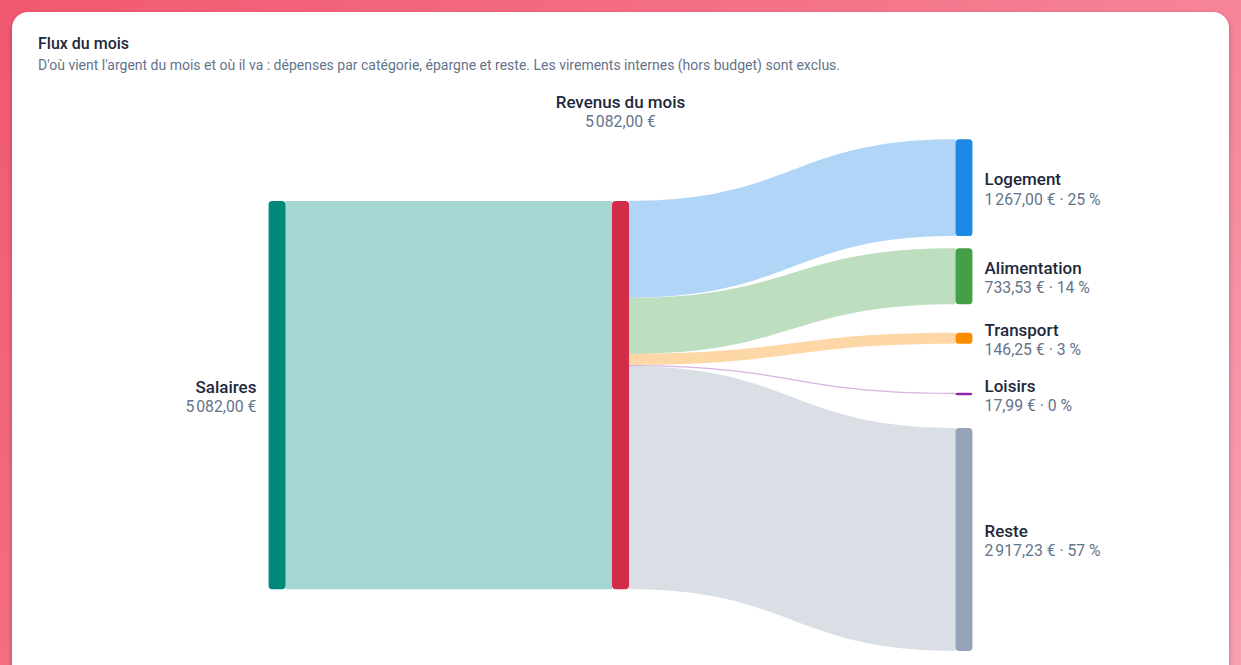
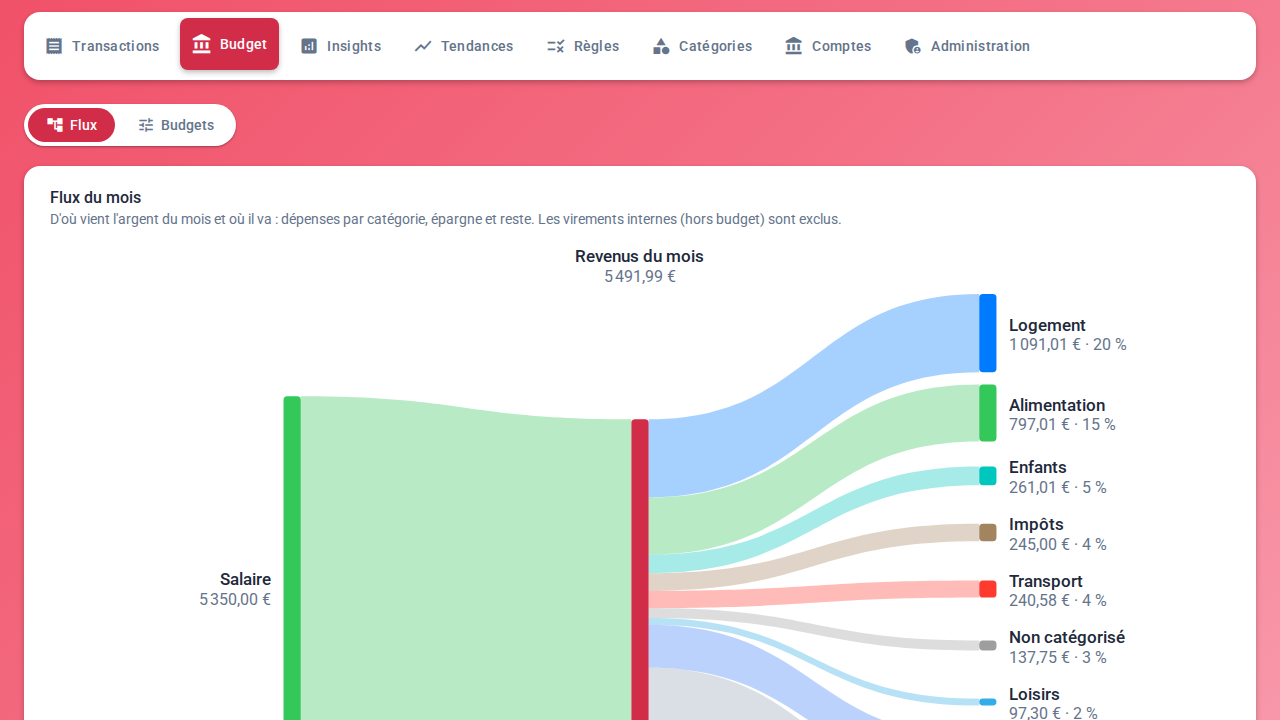
README: screenshot gallery, full comparison, aligned EN/FR
- Seven screenshots of the demonstration data, all 1280x720 and cropped from
  the tabs: a full-width transactions view and a captioned 2x3 gallery
  (budgets, money flow, trends, insights, categories, AI agent); English set
  in docs/assets/en, French set at the paths used by the documentation
- Comparison with Firefly III, Actual Budget and Kresus extended to 23
  criteria in five groups, including what Carbure lacks
- README.md and README.fr.md with the same content (badge, bank coverage,
  comparison, contribution) and the 1.0.2 features
- Portal: euro sign in English (amounts are in euros)

diff --git a/portal/i18n.js b/portal/i18n.js
@@ -999,7 +999,7 @@ const i18n = {
         },
         
         // Currency
-        currencySymbol: '$'
+        currencySymbol: '€'
     }
 };
 

diff --git a/README.fr.md b/README.fr.md
@@ -11,7 +11,7 @@
 <p align="center">
   <strong>Le budget de votre foyer, enfin sous contrôle.</strong><br>
   Vos comptes bancaires synchronisés automatiquement, vos dépenses catégorisées,<br>
-  vos budgets suivis au jour le jour — sur le web et sur iPhone.
+  vos budgets suivis au jour le jour — sur le web et sur iPhone. Hébergé chez vous, gratuit et open source.
 </p>
 
 <p align="center">
@@ -21,6 +21,7 @@
 <p align="center">
   <a href="https://github.com/ltoinel/Carbure/actions/workflows/ci.yml"><img src="https://github.com/ltoinel/Carbure/actions/workflows/ci.yml/badge.svg" alt="CI"></a>
   <a href="https://github.com/ltoinel/Carbure/releases"><img src="https://img.shields.io/github/v/release/ltoinel/Carbure" alt="Release"></a>
+  <a href="https://hub.docker.com/r/ltoinel/carbure"><img src="https://img.shields.io/docker/pulls/ltoinel/carbure?logo=docker&logoColor=white" alt="Docker pulls"></a>
   <a href="https://github.com/ltoinel/Carbure/actions/workflows/ci.yml"><img src="https://img.shields.io/badge/coverage-%E2%89%A5%2090%25-brightgreen" alt="Coverage"></a>
   <a href="https://www.php.net/"><img src="https://img.shields.io/badge/PHP-%3E%3D%208.2-777BB4?logo=php&logoColor=white" alt="PHP"></a>
   <a href="https://mariadb.org/"><img src="https://img.shields.io/badge/MariaDB%20%2F%20MySQL-003545?logo=mariadb&logoColor=white" alt="MariaDB"></a>
@@ -29,34 +30,117 @@
 </p>
 
 <p align="center">
-  <img src="docs/assets/screenshot-transactions.png" alt="Transactions du mois : recherche, pointage et catégories" width="820">
+  <img src="docs/assets/screenshot-transactions.png" alt="Transactions du mois : revenus, dépenses, recherche, pointage et catégories" width="100%">
 </p>
+
+<table>
+  <tr>
+    <td width="50%" valign="top">
+      <img src="docs/assets/screenshot-budget.png" alt="Budgets par catégorie, les sous-catégories s'additionnent dans leur parent">
+      <br><sub><b>Budgets</b> — dépensé, restant et dépassement par catégorie ; un parent additionne ses sous-catégories</sub>
+    </td>
+    <td width="50%" valign="top">
+      <img src="docs/assets/screenshot-flow.png" alt="Flux du mois">
+      <br><sub><b>Flux du mois</b> — où partent les revenus du mois : dépenses, épargne, reste</sub>
+    </td>
+  </tr>
+  <tr>
+    <td width="50%" valign="top">
+      <img src="docs/assets/screenshot-trends.png" alt="Tendances sur 3, 6 ou 12 mois">
+      <br><sub><b>Tendances</b> — revenus, dépenses et épargne sur 3, 6 ou 12 mois, avec comparaisons</sub>
+    </td>
+    <td width="50%" valign="top">
+      <img src="docs/assets/screenshot-insights.png" alt="Insights du mois">
+      <br><sub><b>Insights</b> — vos propres indicateurs du mois, définis par une requête</sub>
+    </td>
+  </tr>
+  <tr>
+    <td width="50%" valign="top">
+      <img src="docs/assets/screenshot-categories.png" alt="Catégories avec leurs icônes et couleurs">
+      <br><sub><b>Catégories</b> — deux niveaux, icônes et couleurs partagées avec l'app iPhone</sub>
+    </td>
+    <td width="50%" valign="top">
+      <img src="docs/assets/screenshot-agents.png" alt="Onglet Agent IA : serveur MCP et connecteur Claude">
+      <br><sub><b>Agent IA</b> — connectez Claude, ChatGPT et d'autres à vos données, en lecture seule</sub>
+    </td>
+  </tr>
+</table>
 
 ## Pourquoi Carbure ?
 
-- 🔄 **Zéro saisie** : vos opérations arrivent toutes seules depuis votre banque grâce à
-  [woob](https://woob.tech/), chaque jour.
+- 🔄 **Zéro saisie** : vos opérations arrivent toutes seules depuis votre banque, chaque jour,
+  grâce à [woob](https://woob.tech/) — une connexion directe, sans agrégateur tiers.
 - 🏷 **Catégorisation automatique** : des règles simples (« CARREFOUR → Supermarché ») classent
   chaque transaction. Une nouvelle ? Choisissez sa catégorie, Carbure vous propose la règle.
-- 🎯 **Budgets mensuels** : dépensé, restant, dépassement, catégorie par catégorie, d'un coup d'œil,
-  et le **flux du mois** : d'où vient l'argent et où il part (dépenses, épargne, reste).
-- 📈 **Tendances** : revenus, dépenses, épargne sur 3, 6 ou 12 mois, comparés à la période
-  précédente ou à l'an dernier.
+- 🎯 **Budgets mensuels** : dépensé, restant, dépassement, catégorie par catégorie, d'un coup
+  d'œil. Budgétez les sous-catégories et leur parent les additionne — ou fixez-lui son propre
+  montant. Le **flux du mois** montre d'où vient l'argent et où il part.
+- 📈 **Tendances** : revenus, dépenses et épargne sur 3, 6 ou 12 mois, comparés à la période
+  précédente ou à la même période l'an dernier.
 - ✅ **Pointage** : vérifiez vos transactions en un clic, filtrez celles qui restent à contrôler.
-- 🔔 **Alertes sur iPhone** : un push après chaque synchronisation, et dès qu'une dépense dépasse
-  le seuil que vous avez choisi.
+- 🔔 **Alertes sur iPhone** : un push après chaque synchronisation, dès qu'une dépense dépasse
+  le seuil que vous avez choisi, ou quand une règle que vous avez désignée s'applique.
 - 📊 **Insights** : vos propres indicateurs du mois (courses, carburant, abonnements…).
 - 👨👩👧 **Pensé pour le foyer** : plusieurs utilisateurs, des comptes et des données partagés,
   chacun sa langue et ses appareils ; un administrateur gère comptes, catégories, règles et
   utilisateurs.
-- 🤖 **Interrogez vos comptes avec votre agent IA** (Claude, ChatGPT, Cursor, Copilot,
-  Gemini) : un serveur MCP intégré, en lecture seule et désactivable, permet de demander
-  « combien en restaurants cette année ? » ou « où dépasse-t-on le budget ? ».
-- 🔒 **Tout reste chez vous, sans abonnement** : Carbure est gratuit et open source, il tourne
-  sur votre propre serveur (un NAS suffit). Pas de compte à créer, pas d'agrégateur bancaire tiers,
-  pas de cloud : vos identifiants et vos données bancaires restent dans votre base locale.
-  Seules sorties réseau : la connexion directe à votre banque (woob) et, si vous l'activez,
-  l'envoi des notifications via Apple.
+- 🤖 **Interrogez vos comptes avec votre agent IA** : un serveur MCP intégré, en lecture seule
+  et désactivable, répond à « combien en restaurants cette année ? » ou « où dépasse-t-on le
+  budget ? ». Claude (web, Desktop, mobile) se connecte avec la seule URL du serveur, après
+  votre accord dans le portail ; Claude Code, ChatGPT, Cursor, Copilot et Gemini avec un
+  jeton d'accès.
+- 🔒 **Tout reste chez vous** : Carbure tourne sur votre propre serveur (un NAS suffit). Pas de
+  compte à créer, pas d'agrégateur, pas de cloud : vos identifiants et vos données bancaires
+  restent dans votre base locale. Seules sorties réseau : votre banque (woob) et, si vous
+  l'activez, le service de notifications d'Apple.
+
+> 🌍 **Banques couvertes** : Carbure s'appuie sur les modules [woob](https://woob.tech/), qui
+> couvrent surtout les banques françaises. Le portail existe en français et en anglais ; les
+> montants sont en euros.
+
+## Comment se situe Carbure ?
+
+Carbure vise un foyer dont les comptes sont en France et qui veut garder ses données chez lui,
+avec une app iPhone et un agent IA. Les autres outils open source ci-dessous sont excellents,
+avec d'autres points forts : un modèle comptable plus riche (Firefly III), le budget par
+enveloppes et une application local-first (Actual Budget), ou la même connexion woob pour un
+seul utilisateur (Kresus).
+
+✅ oui · ⚠ en partie · ➖ non
+
+| | **Carbure** | **Firefly III** | **Actual Budget** | **Kresus** |
+|---|---|---|---|---|
+| **Hébergement** | | | | |
+| Hébergé chez soi, open source | ✅ MIT | ✅ AGPL-3.0 | ✅ MIT | ✅ AGPL-3.0 |
+| Technologies | PHP, MariaDB/MySQL | PHP (Laravel), base SQL | Node.js, local-first | Node.js, base SQL |
+| Image Docker | ✅ nginx, PHP et woob inclus | ✅ | ✅ | ✅ |
+| Assistant d'installation web, mises à jour de la base automatiques | ✅ | ➖ | ⚠ | ➖ |
+| **Données bancaires** | | | | |
+| Connexion bancaire | Directe, via woob | Importeur : GoCardless, Enable Banking, SimpleFIN, Salt Edge | GoCardless, Enable Banking, SimpleFIN et d'autres | Directe, via woob |
+| Sans agrégateur tiers | ✅ | ➖ | ➖ | ✅ |
+| Banques couvertes | Surtout françaises | Monde entier, via les fournisseurs | Europe et Amériques, via les fournisseurs | Surtout françaises |
+| Import de fichiers (CSV, OFX…) | ➖ | ✅ | ✅ | ⚠ |
+| Plusieurs devises | ➖ euros | ✅ | ➖ | ⚠ |
+| **Budget et analyse** | | | | |
+| Budgets mensuels par catégorie | ✅ | ✅ | ✅ enveloppes | ✅ |
+| Sous-catégories additionnées dans leur parent | ✅ | ➖ catégories à plat, étiquettes | ⚠ groupes de catégories | ➖ |
+| Règles de catégorisation automatique | ✅ mots-clés, proposées après un choix manuel | ✅ moteur de règles riche | ✅ | ✅ |
+| Pointage des transactions | ✅ | ✅ rapprochement | ✅ rapprochement | ➖ |
+| Graphiques et tendances | ✅ tendances, comparaisons, flux du mois | ✅ rapports | ✅ rapports personnalisés | ✅ |
+| Indicateurs personnalisés | ✅ insights SQL | ➖ | ⚠ rapports personnalisés | ➖ |
+| Opérations récurrentes, factures | ➖ | ✅ | ✅ échéances | ✅ |
+| Objectifs d'épargne | ➖ | ✅ tirelires | ✅ modèles d'objectifs | ➖ |
+| **Foyer et appareils** | | | | |
+| Plusieurs utilisateurs sur les mêmes données | ✅ administrateur et utilisateurs | ⚠ utilisateurs séparés | ✅ | ➖ |
+| iPhone | ✅ app native | ⚠ apps tierces | ⚠ application web (PWA) | ⚠ interface web |
+| Android | ⚠ portail web | ⚠ apps tierces | ⚠ application web (PWA) | ⚠ interface web |
+| Alertes | ✅ push iPhone : synchro, grosse dépense, règle | ⚠ e-mail, webhooks | ➖ | ⚠ e-mail : montant, solde |
+| **Ouvert et extensible** | | | | |
+| API REST | ✅ JWT, OpenAPI | ✅ OAuth2 | ⚠ API JavaScript | ⚠ interne |
+| Serveur MCP intégré pour les agents IA | ✅ lecture seule, OAuth pour Claude | ➖ serveurs communautaires | ➖ | ➖ |
+
+<sub>D'après la documentation de chaque projet, en octobre 2026 — corrections bienvenues dans une
+[issue](https://github.com/ltoinel/Carbure/issues).</sub>
 
 ## Comment ça marche
 
@@ -93,7 +177,9 @@ base de données sont, elles aussi, automatiques. Sur un NAS Synology, suivez le
 ## Contribuer
 
 Les contributions sont les bienvenues : lisez [AGENTS.md](AGENTS.md) (conventions, tests,
-définition de « terminé ») et la liste des tâches ouvertes dans [TODO.md](TODO.md).
+définition de « terminé ») et la liste des tâches ouvertes dans [TODO.md](TODO.md). Un bug, une
+idée ? [Ouvrez une issue](https://github.com/ltoinel/Carbure/issues). Si Carbure vous est utile,
+une ⭐ aide d'autres personnes à le découvrir.
 
 Pour développer, `./start.sh` démarre l'environnement de développement avec Docker : l'image
 de production et MariaDB, le code du dépôt monté en direct et un foyer d'exemple

diff --git a/README.md b/README.md
@@ -30,13 +30,41 @@
 </p>
 
 <p align="center">
-  <img src="docs/assets/screenshot-transactions.png" alt="Monthly transactions: search, check-off and categories" width="820">
+  <img src="docs/assets/en/screenshot-transactions.png" alt="Transactions of the month: income, expenses, search, check-off and categories" width="100%">
 </p>
 
-<p align="center">
-  <img src="docs/assets/screenshot-flow.png" alt="Monthly money flow: where income goes (spending, savings, remainder)" width="400">
-  <img src="docs/assets/screenshot-trends.png" alt="Trends: income, spending and savings over 3, 6 or 12 months" width="400">
-</p>
+<table>
+  <tr>
+    <td width="50%" valign="top">
+      <img src="docs/assets/en/screenshot-budget.png" alt="Budgets by category, sub-categories adding up to their parent">
+      <br><sub><b>Budgets</b> — spent, remaining and overspent per category; a parent adds up its sub-categories</sub>
+    </td>
+    <td width="50%" valign="top">
+      <img src="docs/assets/en/screenshot-flow.png" alt="Money flow of the month">
+      <br><sub><b>Money flow</b> — where the month's income goes: expenses, savings, remainder</sub>
+    </td>
+  </tr>
+  <tr>
+    <td width="50%" valign="top">
+      <img src="docs/assets/en/screenshot-trends.png" alt="Trends over 3, 6 or 12 months">
+      <br><sub><b>Trends</b> — income, spending and savings over 3, 6 or 12 months, with comparisons</sub>
+    </td>
+    <td width="50%" valign="top">
+      <img src="docs/assets/en/screenshot-insights.png" alt="Insights of the month">
+      <br><sub><b>Insights</b> — your own monthly indicators, defined by a query</sub>
+    </td>
+  </tr>
+  <tr>
+    <td width="50%" valign="top">
+      <img src="docs/assets/en/screenshot-categories.png" alt="Categories with their icons and colors">
+      <br><sub><b>Categories</b> — two levels, icons and colors shared with the iPhone app</sub>
+    </td>
+    <td width="50%" valign="top">
+      <img src="docs/assets/en/screenshot-agents.png" alt="AI agent tab: MCP server and Claude connector">
+      <br><sub><b>AI agent</b> — connect Claude, ChatGPT and others to your data, read-only</sub>
+    </td>
+  </tr>
+</table>
 
 ## Why Carbure?
 
@@ -44,38 +72,72 @@
   [woob](https://woob.tech/) — a direct connection, no third-party aggregator.
 - 🏷 **Automatic categorization**: simple rules ("CARREFOUR → Groceries") sort every
   transaction. A new one? Pick its category and Carbure suggests the rule.
-- 🎯 **Monthly budgets**: spent, remaining and overspent, category by category, at a glance —
-  plus the **monthly flow**: where the money comes from and where it goes (spending, savings,
-  remainder).
+- 🎯 **Monthly budgets**: spent, remaining and overspent, category by category, at a glance.
+  Budget the sub-categories and their parent adds them up — or set its own amount. The
+  **monthly flow** shows where the money comes from and where it goes.
 - 📈 **Trends**: income, spending and savings over 3, 6 or 12 months, compared with the
   previous period or the same period last year.
 - ✅ **Check-off**: verify transactions in one click and filter those still to review.
-- 🔔 **iPhone alerts**: a push after each sync, and as soon as an expense exceeds the threshold
-  you set.
+- 🔔 **iPhone alerts**: a push after each sync, as soon as an expense exceeds the threshold
+  you set, or when a rule you chose matches.
 - 📊 **Insights**: your own monthly indicators (groceries, fuel, subscriptions…).
 - 👨👩👧 **Built for households**: several users, shared accounts and data, each with their own
   language and devices; an administrator manages accounts, categories, rules and users.
-- 🤖 **Ask your AI agent about your money** (Claude, ChatGPT, Cursor, Copilot, Gemini): a
-  built-in, read-only MCP server — which you can turn off — answers questions like "how much
-  did we spend on restaurants this year?" or "which budgets are we over?".
+- 🤖 **Ask your AI agent about your money**: a built-in, read-only MCP server — which you can
+  turn off — answers questions like "how much did we spend on restaurants this year?" or
+  "which budgets are we over?". Claude (web, Desktop, mobile) connects from the server URL
+  alone, after your approval in the portal; Claude Code, ChatGPT, Cursor, Copilot and Gemini
+  with an access token.
 - 🔒 **Everything stays with you**: Carbure runs on your own server (a NAS is enough). No
   account to create, no aggregator, no cloud: your bank credentials and data stay in your
   local database. The only outbound connections are to your bank (woob) and, if you enable
   them, Apple's push notification service.
 
 > 🌍 **Bank coverage**: Carbure relies on [woob](https://woob.tech/) modules, which mainly
-> cover French banks. The portal is available in English and French.
+> cover French banks. The portal is available in English and French; amounts are in euros.
 
 ## How does it compare?
 
-| | Carbure | Firefly III | Actual Budget | Kresus |
-|---|---|---|---|---|
-| Self-hosted, open source | ✅ | ✅ | ✅ | ✅ |
-| Bank connection | Direct, via woob | Importer + third-party providers | Third-party providers | Direct, via woob |
-| Native iPhone app with push alerts | ✅ | Third-party apps | ➖ | ➖ |
-| Built-in MCP server for AI agents | ✅ | ➖ | ➖ | ➖ |
+Carbure focuses on a household that banks in France and wants its data at home, with an
+iPhone app and an AI agent. The other open source tools below are excellent too, with other
+strengths: a richer accounting model (Firefly III), envelope budgeting and a local-first app
+(Actual Budget), or the same woob connection for a single user (Kresus).
 
-<sub>To the best of our knowledge as of October 2026 — corrections welcome via an issue.</sub>
+✅ yes · ⚠ partly · ➖ no
+
+| | **Carbure** | **Firefly III** | **Actual Budget** | **Kresus** |
+|---|---|---|---|---|
+| **Hosting** | | | | |
+| Self-hosted, open source | ✅ MIT | ✅ AGPL-3.0 | ✅ MIT | ✅ AGPL-3.0 |
+| Stack | PHP, MariaDB/MySQL | PHP (Laravel), SQL database | Node.js, local-first | Node.js, SQL database |
+| Docker image | ✅ nginx, PHP and woob included | ✅ | ✅ | ✅ |
+| Web setup wizard, automatic database upgrades | ✅ | ➖ | ⚠ | ➖ |
+| **Bank data** | | | | |
+| Bank connection | Direct, via woob | Data importer: GoCardless, Enable Banking, SimpleFIN, Salt Edge | GoCardless, Enable Banking, SimpleFIN and others | Direct, via woob |
+| Without a third-party aggregator | ✅ | ➖ | ➖ | ✅ |
+| Banks covered | Mostly French | Worldwide, through providers | Europe and Americas, through providers | Mostly French |
+| File import (CSV, OFX…) | ➖ | ✅ | ✅ | ⚠ |
+| Several currencies | ➖ euros | ✅ | ➖ | ⚠ |
+| **Budget and analysis** | | | | |
+| Monthly budgets per category | ✅ | ✅ | ✅ envelopes | ✅ |
+| Sub-categories adding up to their parent | ✅ | ➖ flat categories, tags | ⚠ category groups | ➖ |
+| Automatic categorization rules | ✅ keywords, suggested after a manual choice | ✅ rich rule engine | ✅ | ✅ |
+| Transaction check-off | ✅ | ✅ reconciliation | ✅ reconciliation | ➖ |
+| Charts and trends | ✅ trends, comparisons, money flow | ✅ reports | ✅ custom reports | ✅ |
+| Custom indicators | ✅ SQL insights | ➖ | ⚠ custom reports | ➖ |
+| Recurring transactions, bills | ➖ | ✅ | ✅ schedules | ✅ |
+| Savings goals | ➖ | ✅ piggy banks | ✅ goal templates | ➖ |
+| **Household and devices** | | | | |
+| Several users sharing the same data | ✅ administrator and users | ⚠ separate users | ✅ | ➖ |
+| iPhone | ✅ native app | ⚠ third-party apps | ⚠ web app (PWA) | ⚠ web interface |
+| Android | ⚠ web portal | ⚠ third-party apps | ⚠ web app (PWA) | ⚠ web interface |
+| Alerts | ✅ iPhone push: sync, large expense, rule | ⚠ email, webhooks | ➖ | ⚠ email: amount, balance |
+| **Open and extensible** | | | | |
+| REST API | ✅ JWT, OpenAPI | ✅ OAuth2 | ⚠ JavaScript API | ⚠ internal |
+| Built-in MCP server for AI agents | ✅ read-only, OAuth for Claude | ➖ community servers | ➖ | ➖ |
+
+<sub>From each project's documentation, as of October 2026 — corrections welcome via an
+[issue](https://github.com/ltoinel/Carbure/issues).</sub>
 
 ## How it works
 
